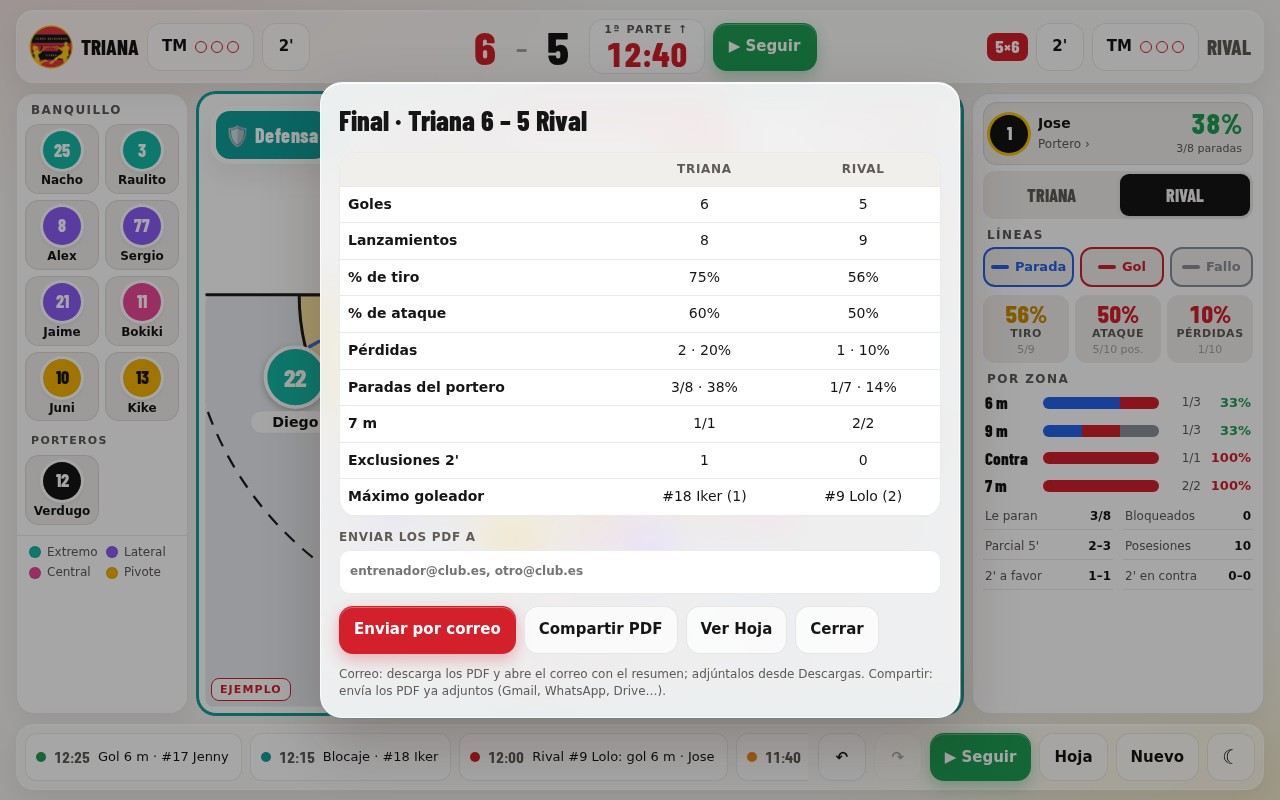
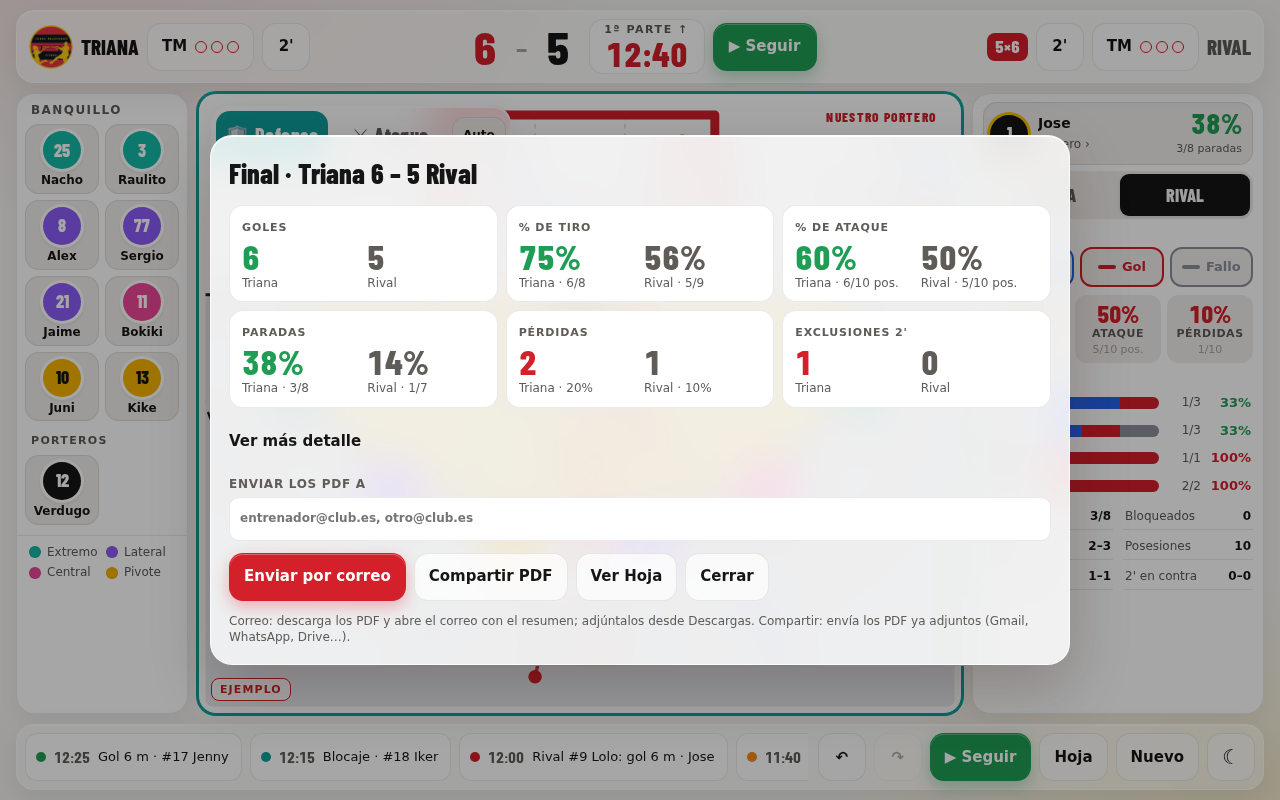
docs(readme): show half-time and KPI summaries

Changed region(s): [[0.1562, 0.0938, 0.8438, 0.9062], [0.6562, 0.5938, 0.6875, 0.625]]

diff --git a/tools/screenshots.py b/tools/screenshots.py
@@ -32,6 +32,7 @@ SCENES = {
     "dark": f"{SAMPLE} applyTheme('dark'); setPhase('ATK'); ui.source = 'US'; commit();",
     "analysis": f"{SAMPLE} commit(); ui.sheetMode = 'sheet'; ui.sheetTab = 'analysis'; renderSheet(); $('sheet').hidden = false;",
     "goalkeeper": f"{SAMPLE} commit(); ui.sheetMode = 'sheet'; ui.sheetTab = 'gk'; renderSheet(); $('sheet').hidden = false;",
+    "halftime": f"{SAMPLE} commit(); openHalftime();",
     "final": f"{SAMPLE} commit(); openFinal();",
 }
 

diff --git a/README.md b/README.md
@@ -89,8 +89,9 @@ they score. Plain-language key points to work on, for defence and attack.
 <td width="50%" valign="top">
 
 ### Who hurt each goal most
-Our goal or the rival's: every trajectory with the shooter's dorsal, the shooters ranked by goals
-(tap one to see only their shots), saves and goals by zone and goal sector. The PDF report has the
+Our goal or the rival's: who shoots, scores and misses most, the saved and conceded trajectories
+with the shooter's dorsal, the shooters ranked by goals (tap one to see only their shots), and
+saves and goals by zone and goal sector. The PDF report has the
 same maps and rankings.
 
 </td>
@@ -109,15 +110,16 @@ and load as files, so the next match starts in seconds.
 </td>
 <td width="50%" valign="top">
 
-### Final summary and PDFs
-At the end, a summary of both teams and the PDF reports (match, key points, each player), sent
-by e-mail or shared to WhatsApp, Drive or Gmail.
+### Half-time and final summaries
+The headline numbers of both teams as KPIs (yours coloured against the rival's), the full table
+one tap below. At half-time, the key points to fix; at the end, the PDF reports (match, key
+points, each player) by e-mail or shared to WhatsApp, Drive or Gmail.
 
 </td>
 </tr>
 <tr>
 <td><img src=".github/readme/setup.png" alt="Match setup screen with teams, venue, date and our roster with positions"></td>
-<td><img src=".github/readme/final.png" alt="End-of-match summary comparing both teams, with e-mail and share buttons"></td>
+<td><img src=".github/readme/final.png" alt="End-of-match summary with KPI tiles for both teams, folded detail table, e-mail and share buttons"></td>
 </tr>
 </table>
 
